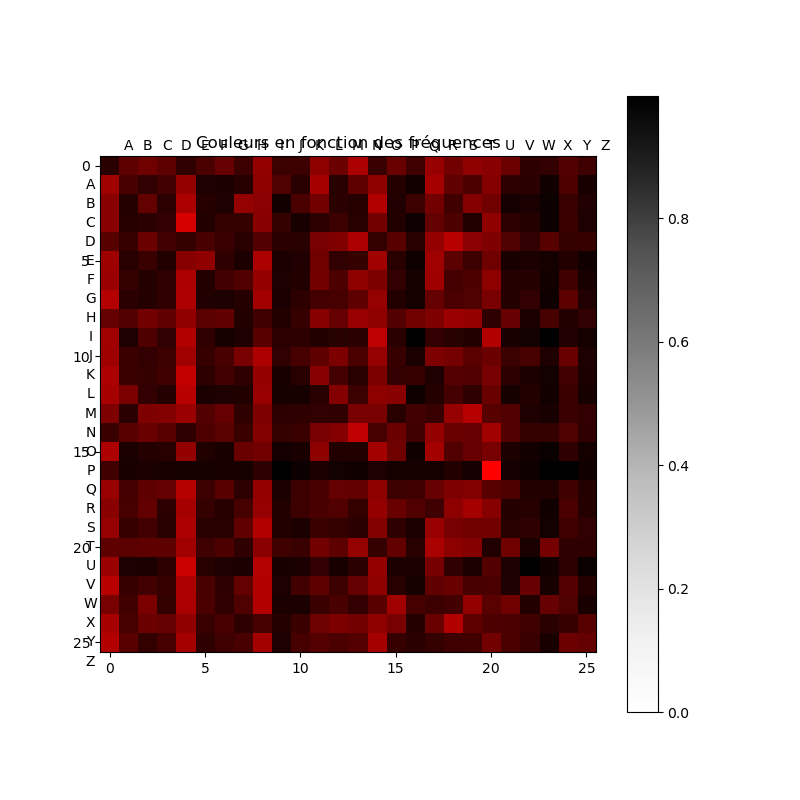
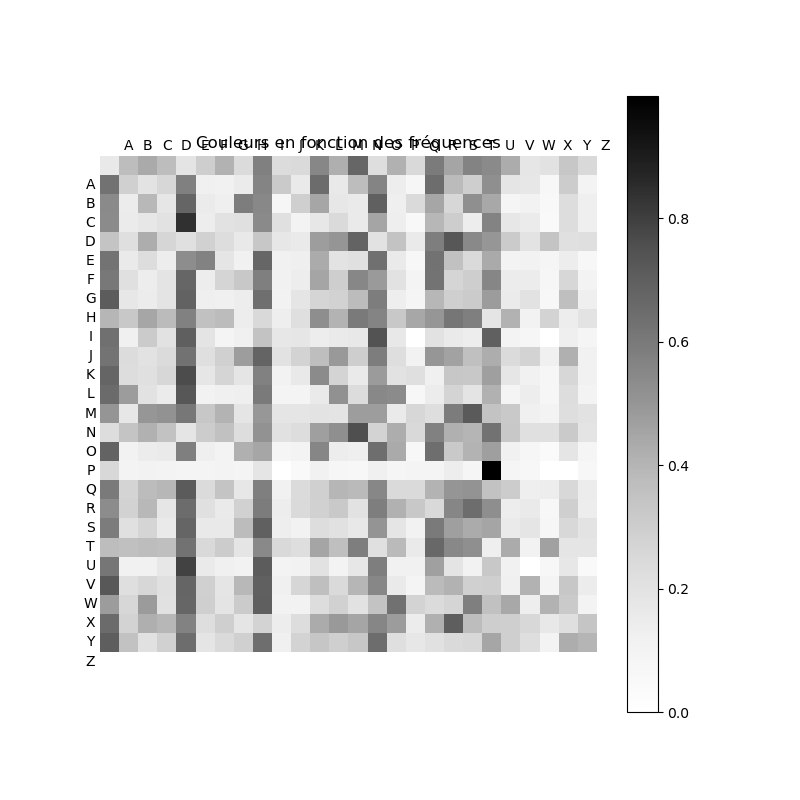
test

diff --git a/visualization/matrix_visualization.py b/visualization/matrix_visualization.py
@@ -17,6 +17,7 @@ import matplotlib.pyplot as plt
 language = "fr"
 matrix = np.loadtxt(f"/home/onyxia/work/projet_python_ds/training/Matrix/Matrix_{language}.txt")
 submatrix= matrix[97:123, 97:123].copy()
+submatrix=(submatrix.astype('float'))**0.25
 """colors = np.zeros((len(matrix), len(matrix[0]), 3))
 for i in range(len(matrix)):
     for j in range(len(matrix)):
@@ -42,23 +43,14 @@ plt.colorbar() """
 
 
 
-colors = np.zeros((len(submatrix), len(submatrix[0]), 3))
-for i in range(len(submatrix)):
-    for j in range(len(submatrix)):
-        colors[i][j] = [submatrix[i][j], submatrix[i][j], submatrix[i][j]]
-
-colors_hsv = np.zeros((len(submatrix), len(submatrix), 3))  # Matrice pour stocker les couleurs en HSV
-for i in range(len(submatrix)):
-    for j in range(len(submatrix)):
-        alpha=0.25
-        colors_hsv[i, j, 0] = submatrix[i, j]**alpha  # Teinte correspondant à la fréquence
 
 # Conversion des couleurs de l'espace HSV à RGB pour l'affichage
 #colors_rgb = plt.get_cmap('hsv')(colors_hsv[:, :, 0])  # Utilisation uniquement de la teinte pour la colormap
 
 # Affichage des couleurs représentant les fréquences
 plt.figure(figsize=(8, 8))
-plt.imshow(colors_hsv, interpolation='nearest', cmap='Greys')
+plt.imshow(submatrix, interpolation='nearest', cmap='Greys')
+plt.axis('off')
 plt.title('Couleurs en fonction des fréquences')
 #plt.xlabel('Lettre suivante')
 #plt.ylabel('Lettre actuelle')
